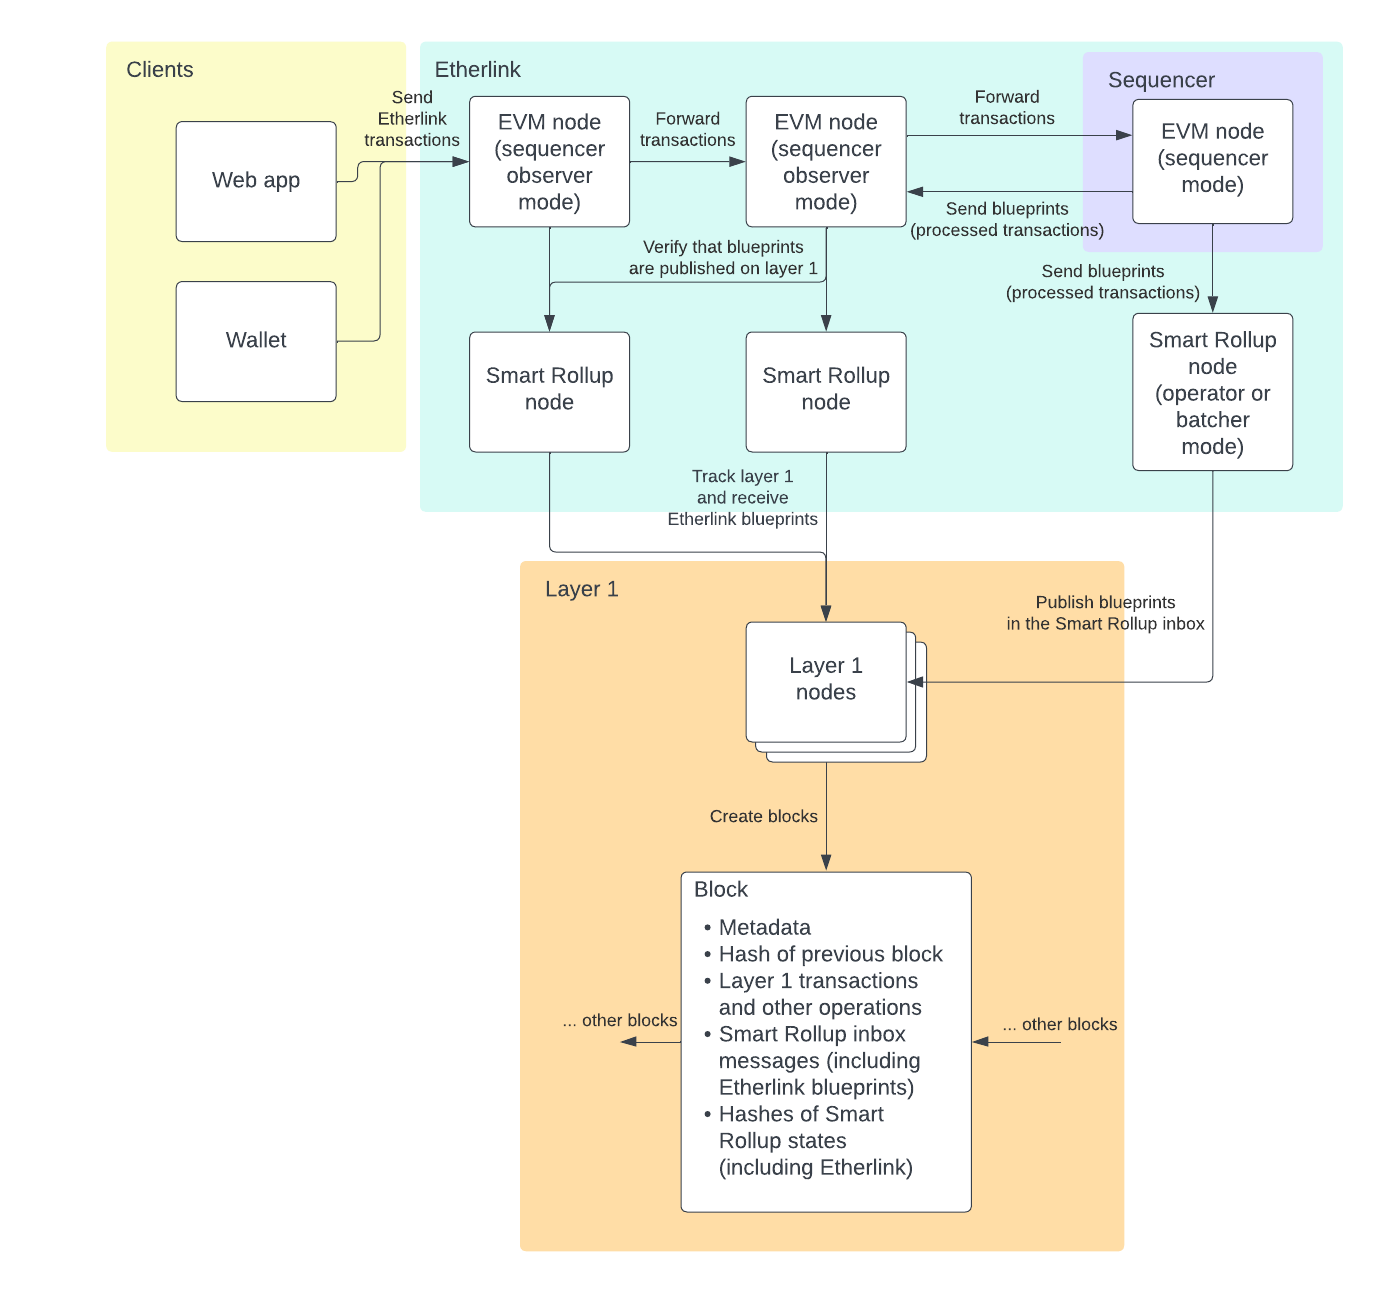
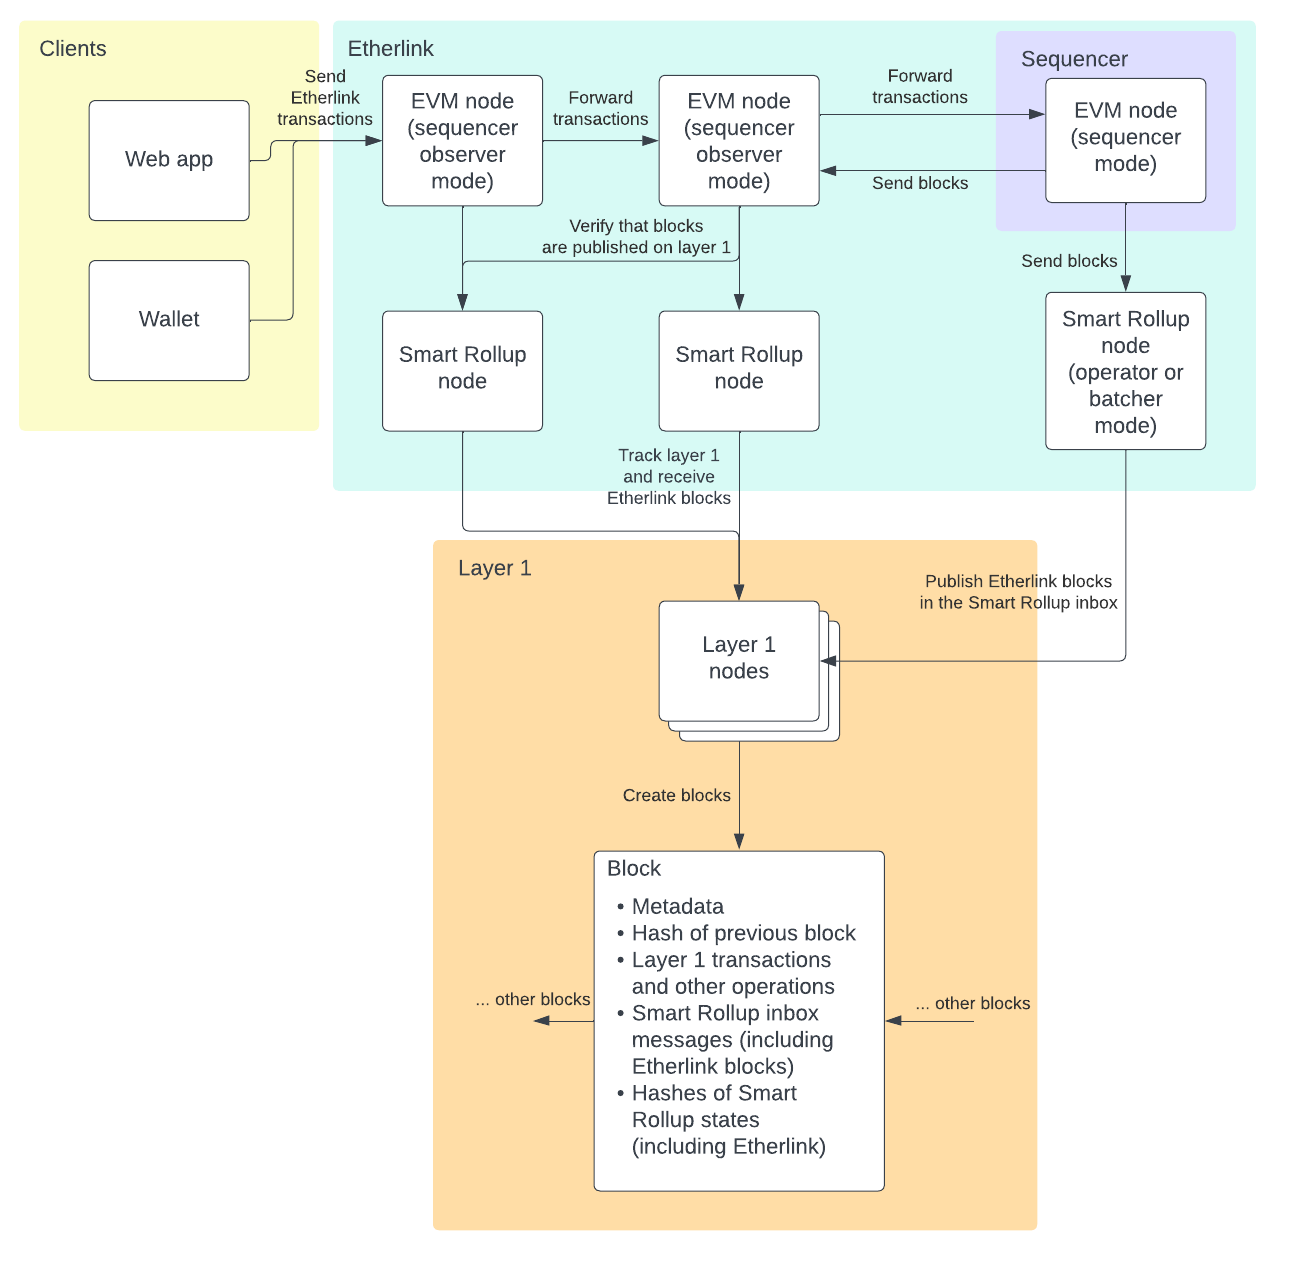
Rename blueprints to blocks

Changed region(s): [[0.0, 0.0, 0.9877, 0.9819]]

diff --git a/docs/network/architecture.md b/docs/network/architecture.md
@@ -13,16 +13,18 @@ These components are instances of binaries in the [Octez software suite](https:/
 ## Sequencer
 
 Etherlink relies on a sequencer to publish transactions.
-It receives transactions from EVM nodes, puts them in order, and packages them into a blueprint, which is a group of Etherlink transactions.
+It receives transactions from EVM nodes, puts them in order, and packages them into a block.
+These blocks are specific to Etherlink and are separate from Tezos layer blocks.
+These blocks are also called "blueprints."
 
-Each blueprint contains:
+Each Etherlink block contains:
 
 - A list of transactions
 - A list of transactions that are currently in the delayed inbox, as described in [Transaction lifecycle](#transaction-lifecycle)
-- The hash of the previous blueprint
-- The timestamp of the blueprint.
+- The hash of the previous block
+- The timestamp of the block.
 
-The sequencer publishes each blueprint in two ways:
+The sequencer publishes each block in two ways:
 
 - It publishes them to EVM nodes, which can consider the transactions final as long as they trust that the sequencer will publish them to layer 1.
 - It publishes them to Tezos layer 1, which finalizes the transactions.
@@ -75,20 +77,21 @@ The lifecycle of a typical operation under normal circumstances is as follows:
 1. A user submits a transaction to an EVM node.
 1. The EVM node forwards the transaction to the sequencer.
 1. The sequencer puts the transaction in its queue as soon as possible (less than 500ms after receiving it in a nominal scenario).
-1. The sequencer puts the transaction into a blueprint.
-1. The sequencer publishes the blueprint to the EVM nodes, which update their states based on the transactions in the blueprint.
-1. The sequencer publishes the blueprint to the Smart Rollup inbox on layer 1 via a Smart Rollup node running in operator or batcher mode.
-1. The Smart Rollup nodes tracking the state of Etherlink fetch the blueprint from the Smart Rollup inbox, read its transactions, and update their states.
-1. The EVM nodes check the state of the Smart Rollup nodes to verify that blueprints have successfully and faithfully been finalized on layer 1.
+1. The sequencer puts the transaction into a block.
+1. The sequencer publishes the block to the EVM nodes, which update their states based on the transactions in the block.
+1. The sequencer publishes the block to the Smart Rollup inbox on layer 1 via a Smart Rollup node running in operator or batcher mode.
+1. The Smart Rollup nodes tracking the state of Etherlink fetch the block from the Smart Rollup inbox, read its transactions, and update their states.
+1. The EVM nodes check the state of the Smart Rollup nodes to verify that blocks have successfully and faithfully been finalized on layer 1.
 1. The Smart Rollup nodes running in operator mode post hashes of Etherlink's state to layer 1 as commitments.
 
 This diagram summarizes the transaction process:
 
-![A more detailed diagram of Etherlink architecture, showing the flow of transactions and blueprints](/img/architecture-full.png)
+![A more detailed diagram of Etherlink architecture, showing the flow of transactions and blocks](/img/architecture-full.png)
+<!-- https://lucid.app/lucidchart/b363063d-f1fe-4081-a717-f7ae9dae4242/edit -->
 
 ### Delayed inbox transaction processing
 
-Under normal circumstances, the sequencer handles all incoming transactions fairly and packages them into blueprints to finalize them.
+Under normal circumstances, the sequencer handles all incoming transactions fairly and packages them into blocks to finalize them.
 If the sequencer doesn't include transactions promptly for any reason, Etherlink provides a backup method of processing transactions that does not rely on the sequencer.
 This method allows users to add transactions to an area of storage called the _delayed inbox_ and to force Etherlink to include them.
 
@@ -105,16 +108,16 @@ This address is hard-coded in the Etherlink kernel.
    This delay is to give the sequencer time to catch up if it is trying to include transactions normally and the network is slow for some reason.
 
 1. If the sequencer is running normally, it processes the transaction in the delayed inbox in the same way that it processes other transactions.
-Then, when the Smart Rollup nodes receive the blueprint with the transaction as in the standard transaction process, they remove it from the delayed inbox.
+Then, when the Smart Rollup nodes receive the block with the transaction as in the standard transaction process, they remove it from the delayed inbox.
 The only way to remove a transaction from the delayed inbox is to process it.
-1. If the sequencer has not included the transaction at the end of the delay, the Smart Rollup nodes take over the blueprint creation process by following these steps:
+1. If the sequencer has not included the transaction at the end of the delay, the Smart Rollup nodes take over the block creation process by following these steps:
 
    1. Each time the Smart Rollup nodes run the Etherlink kernel (at every layer 1 block level), they check to see if the delay has passed for any delayed inbox transactions.
    1. If any transaction needs to be forced, the nodes retrieve all transactions in the delayed inbox, even if they haven't been in the delayed inbox longer than the delay.
-   1. The nodes package these transactions into a blueprint and process the transactions in the same way as they process transactions in blueprints that come from the sequencer.
+   1. The nodes package these transactions into a block and process the transactions in the same way as they process transactions in blocks that come from the sequencer.
 
    In this way, transactions in the delayed inbox take precedence over the sequencer.
-   If the kernel (via the Smart Rollup nodes) generates a blueprint, that blueprint results in a new branch of the Etherlink chain, and the states of the sequencer and the Smart Rollup nodes diverge.
-   It becomes the responsibility of the sequencer to reorganize itself to build blueprints on top of the kernel-generated blueprint.
+   If the kernel (via the Smart Rollup nodes) generates a block, that block results in a new branch of the Etherlink chain, and the states of the sequencer and the Smart Rollup nodes diverge.
+   It becomes the responsibility of the sequencer to reorganize itself to build blocks on top of the kernel-generated block.
 
 The delayed bridge contract is deployed to Tezos layer 1 Mainnet at [KT1Vocor3bL5ZSgsYH9ztt42LNhqFK64soR4](https://better-call.dev/mainnet/KT1Vocor3bL5ZSgsYH9ztt42LNhqFK64soR4).

diff --git a/docs/network/evm-nodes.md b/docs/network/evm-nodes.md
@@ -2,12 +2,12 @@
 title: Running an Etherlink EVM node
 ---
 
-The Etherlink EVM nodes are responsible for maintaining a copy of the Etherlink context and applying new blueprints that process EVM transactions.
+The Etherlink EVM nodes are responsible for maintaining a copy of the Etherlink context and applying new blocks that process EVM transactions.
 
 ## Prerequisites
 
 - Make sure you understand the interaction between different nodes as described in [Etherlink architecture](/network/architecture).
-- If you want to verify the blueprints that come from the sequencer, run an Etherlink Smart Rollup node as described in [Running an Etherlink Smart Rollup node](/network/smart-rollup-nodes).
+- If you want to verify the blocks that come from the sequencer, run an Etherlink Smart Rollup node as described in [Running an Etherlink Smart Rollup node](/network/smart-rollup-nodes).
 Public Smart Rollup nodes for Etherlink are not yet available, so you must run your own if you want to participate in the Etherlink network.
 
 The EVM node runs Etherlink's kernel.
@@ -27,10 +27,10 @@ These images contain the correct version of the binary.
 
 ## Initializing the data directory
 
-1. If you want your EVM node to check the correctness of the blueprints it receives via a Smart Rollup node, set the `sr_node_observer_rpc` environment variable to the URL of that Etherlink Smart Rollup node, such as `http://localhost:8932`.
+1. If you want your EVM node to check the correctness of the blocks it receives via a Smart Rollup node, set the `sr_node_observer_rpc` environment variable to the URL of that Etherlink Smart Rollup node, such as `http://localhost:8932`.
 1. Set the `evm_observer_dir` environment variable to the directory where the node should store its local data.
 The default is `$HOME/.octez-evm-node`.
-1. Initialize the node. To trust incoming blueprints, use `--dont-track-rollup-node`:
+1. Initialize the node. To trust incoming blocks, use `--dont-track-rollup-node`:
 
    ```bash
    octez-evm-node init config \
@@ -39,7 +39,7 @@ The default is `$HOME/.octez-evm-node`.
      --evm-node-endpoint https://relay.mainnet.etherlink.com
    ```
 
-   Alternatively, if you want to rely on a Smart Rollup node to check the correctness of blueprints coming from the sequencer, use `--rollup-node-endpoint`:
+   Alternatively, if you want to rely on a Smart Rollup node to check the correctness of blocks coming from the sequencer, use `--rollup-node-endpoint`:
 
    ```bash
    octez-evm-node init config \

diff --git a/docs/bridging/bridging-tezos.md b/docs/bridging/bridging-tezos.md
@@ -80,7 +80,7 @@ The request includes the tez to bridge, the address of the Etherlink Smart Rollu
 1. The Smart Rollup nodes put the deposit transaction in the delayed inbox.
 1. The sequencer requests the state of Etherlink from a Smart Rollup node and receives the delayed inbox.
 1. The sequencer creates a corresponding transaction on Etherlink to transfer XTZ from the [zero address](https://explorer.etherlink.com/address/0x0000000000000000000000000000000000000000) to the user's address.
-1. The sequencer adds this transaction to a blueprint as in the usual transaction lifecycle described in [Architecture](/network/architecture).
+1. The sequencer adds this transaction to an Etherlink block as in the usual transaction lifecycle described in [Architecture](/network/architecture).
 
 This diagram is an overview of the deposit process:
 
